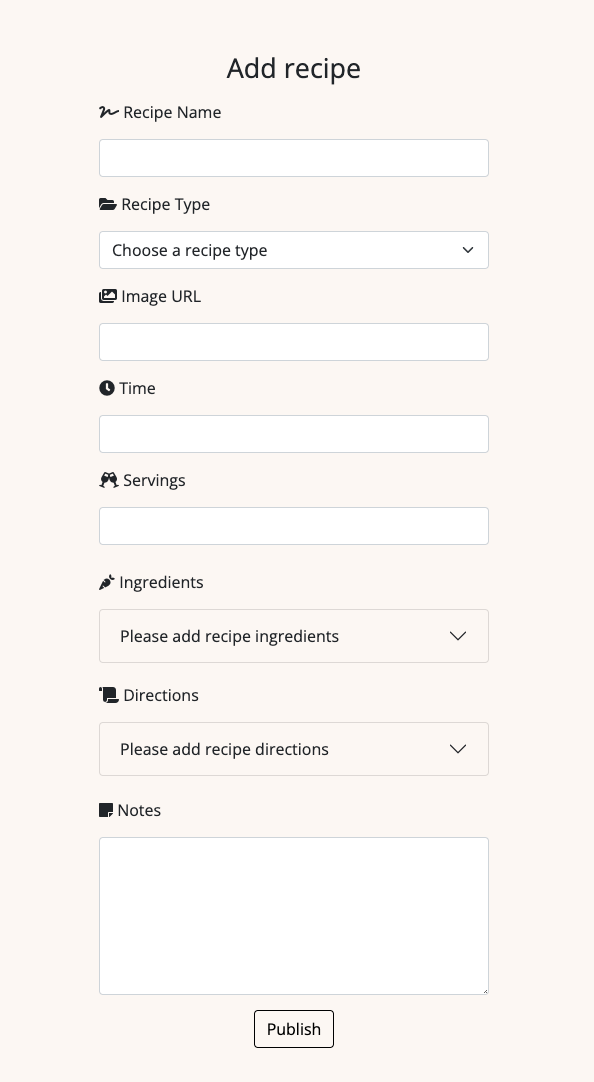
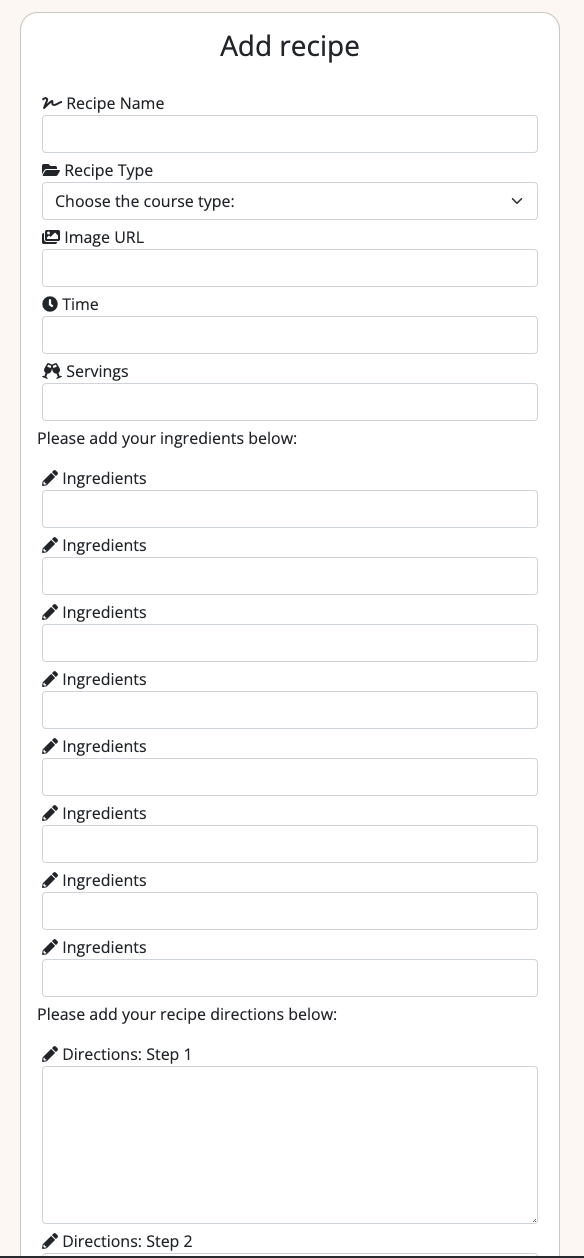
Add images to readme.md

diff --git a/templates/add_recipe.html b/templates/add_recipe.html
@@ -16,7 +16,7 @@
                         <label for="recipe_name">Recipe Name</label>
                         <input type="text" pattern="^[^\s][A-Za-z0-9\s]{1,20}$" class="validate form-control" id="recipe_name" name="recipe_name">
                     </div>
-                    <div class="form-group">
+                    <div class="form-group pt-2">
                         <i class="fa fa-folder-open" aria-hidden="true"></i>
                         <label for="category_name">Recipe Type</label>
                         <select class="form-select" aria-label="Default select example" id="category_name"
@@ -27,17 +27,17 @@
                             {% endfor %}
                         </select>
                     </div>
-                    <div class="form-group">
+                    <div class="form-group pt-2">
                         <i class="fa fa-images" aria-hidden="true"></i>
                         <label for="image_url">Image URL</label>
                         <input type="url" pattern="https?://.+" class="validate form-control" id="image_url" name="image_url" required>
                     </div>
-                    <div class="form-group">
+                    <div class="form-group pt-2">
                         <i class="fa fa-clock" aria-hidden="true"></i>
                         <label for="time">Time</label>
                         <input type="text" pattern="^[1-9][0-9]*$" class="validate form-control" id="time" name="time" required>
                     </div>
-                    <div class="form-group">
+                    <div class="form-group pt-2">
                         <i class="fa fa-glass-cheers" aria-hidden="true"></i>
                         <label for="servings">Servings</label>
                         <input type="text" pattern="^[1-9][0-9]*$" class="validate form-control" id="servings" name="servings"

diff --git a/templates/login.html b/templates/login.html
@@ -14,15 +14,15 @@
                     <div class="form-group">
                         <label for="username">Username</label>
                         <input name="username" id="username" minlength="5" maxlength="15"
-                            pattern="^[a-zA-Z0-9]{5,15}$" class="form-control" placeholder="Enter Username" required>
+                            pattern="^[a-zA-Z0-9]{5,15}$" class="form-control validate" placeholder="Enter Username" required>
                     </div>
                     <div class="form-group">
                         <label for="password">Password</label>
                         <input type="password" name="password" id="password" minlength="5" maxlength="15"
-                            pattern="^[a-zA-Z0-9]{5,15}$" class="form-control" placeholder="Enter Password" required>
+                            pattern="^[a-zA-Z0-9]{5,15}$" class="form-control validate" placeholder="Enter Password" required>
                     </div>
                     <div class="col-md-12 text-center ">
-                        <button type="submit" class=" btn btn-block mybtn btn-primary tx-tfm">Log in</button>
+                        <button type="submit" class="validate btn btn-block mybtn btn-primary tx-tfm">Log in</button>
                     </div>
                     <div class="col-md-12 ">
                         <div class="login-or">

diff --git a/static/js/script.js b/static/js/script.js
@@ -24,7 +24,7 @@ $("#signin").click(function () {
 });
 
 $(function () {
-    $("form[name='login']").validate({
+    const regForm = $("form[name='login']").validate({
         rules: {
             username: {
                 required: true,
@@ -44,6 +44,8 @@ $(function () {
             form.submit();
         }
     });
+
+    console.log(regForm) 
 });
 
 $(function () {
